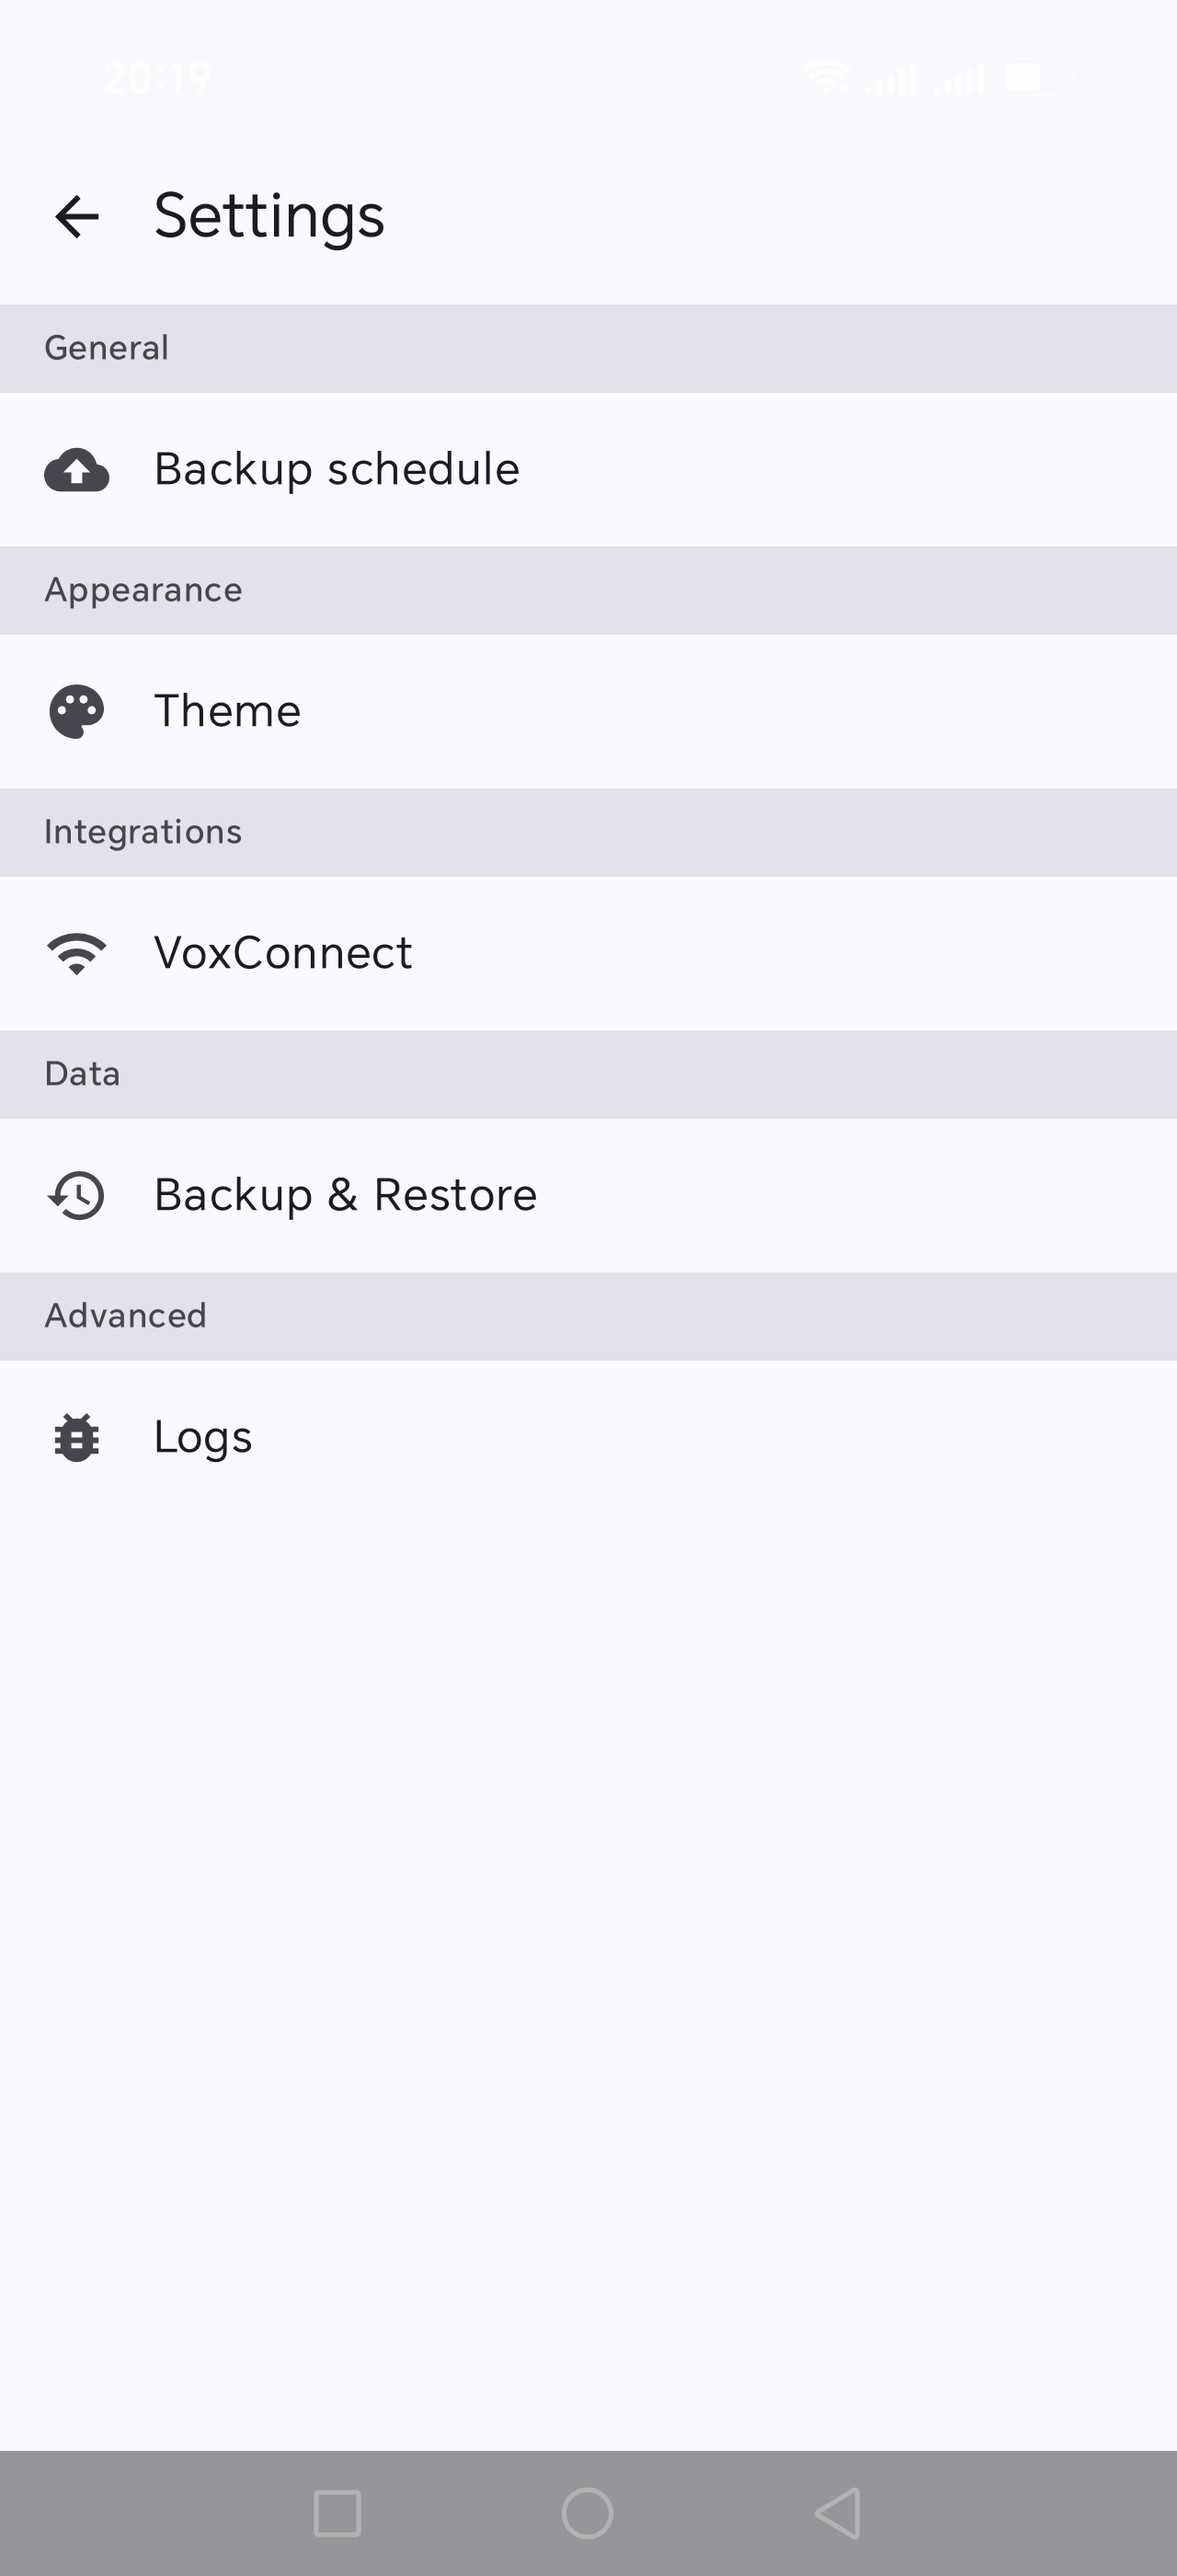
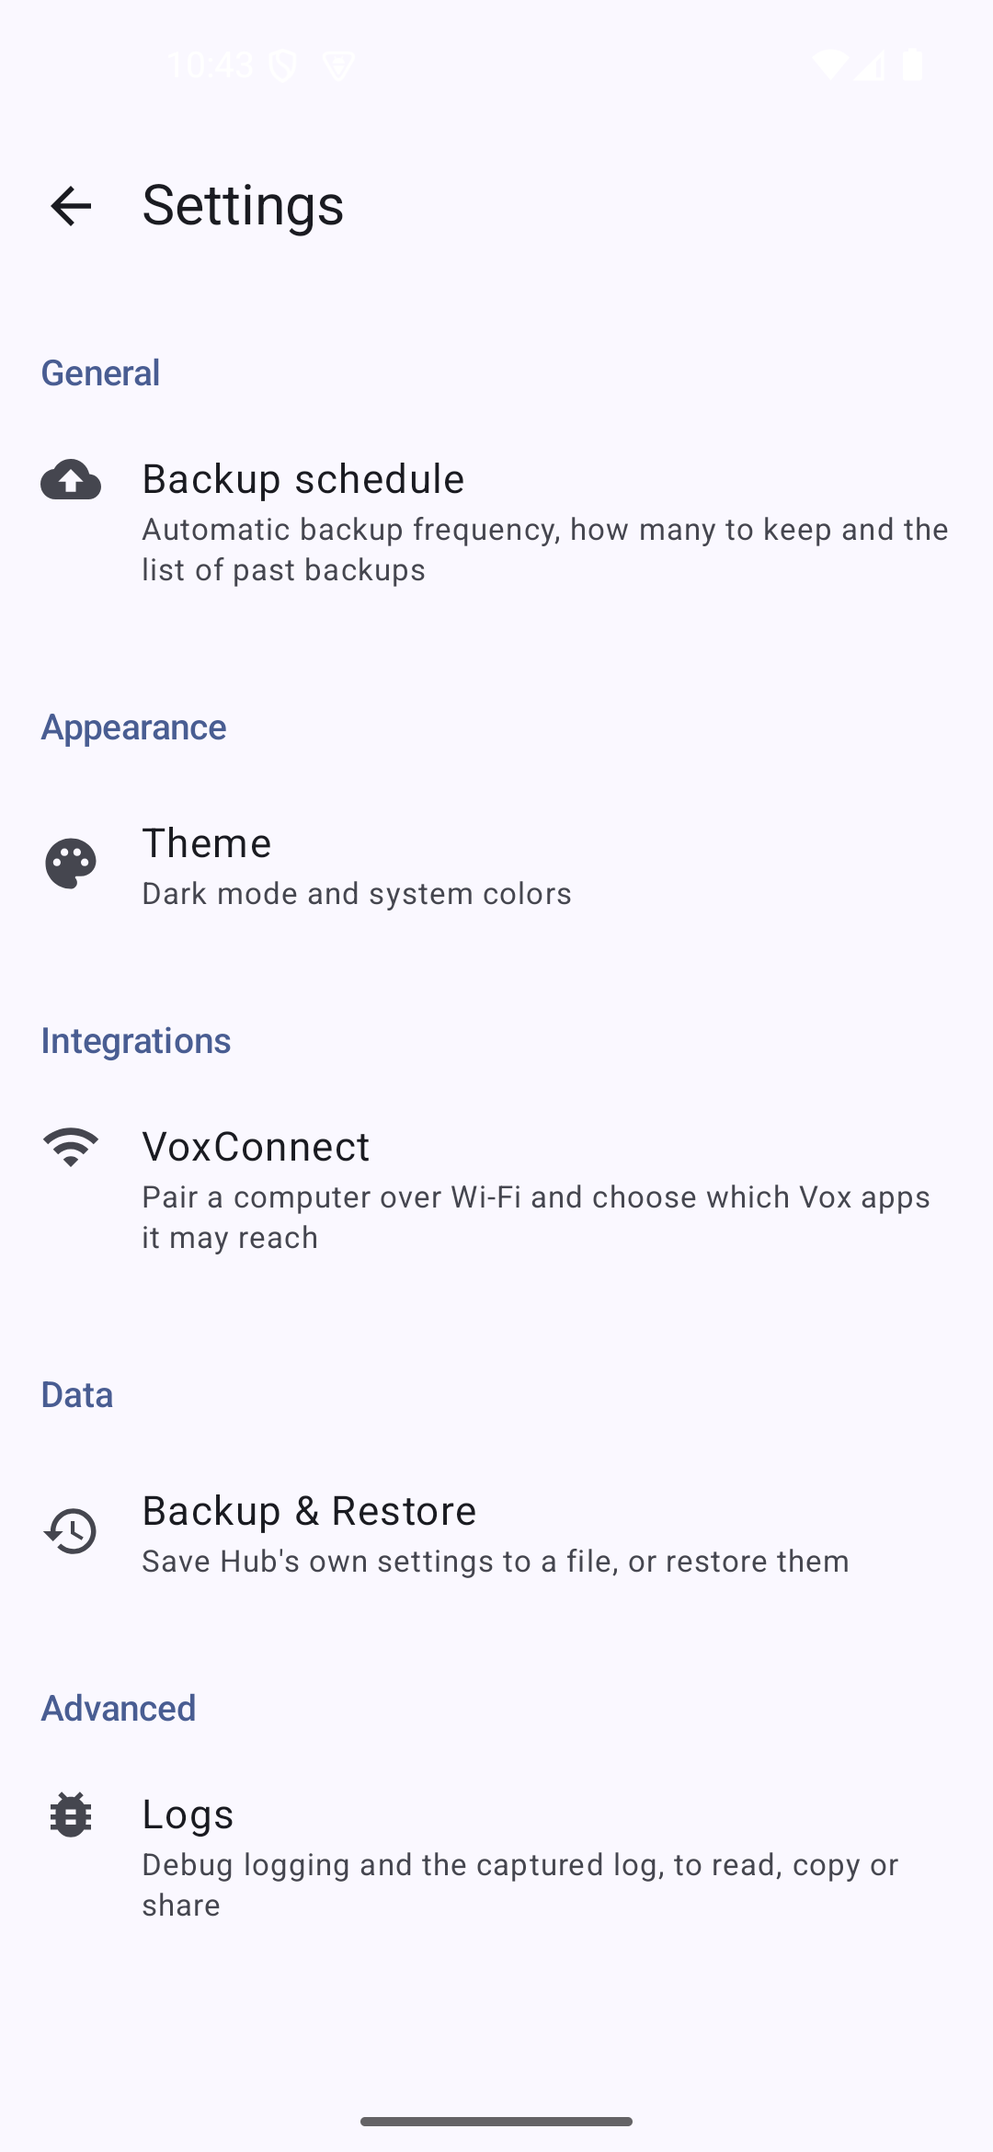
docs: the store listings and the documentation describe the apps that ship
Fastlane, against the last two hundred commits: Vision leads with Vox
LiveView and calls itself a live text reader; Commander's GPU bullet says
OpenCL, which is what runs; Expenses gains multi-select with one edit over
many records, the archive with its five-second-armed deletion, budgets per
account and currency, and the currency read off the message; Calendar's
to-dos are edited inline, recur on chosen weekdays and can reset at
midnight; Notes' records outlive their category.

Screenshots follow the same audit. Thirteen new: LiveView's three result
styles photographed on a real flyer — the green country prefix and the
folded address visible — Expenses' selection bar, bulk edit sheet, archive,
the account-and-card editor, Reports under the filter chip, and Commander's
five settings pages. Twenty-one obsolete ones removed: Commander's entire
top-tab shell, Expenses' free-text bank editor, Calendar's modal to-do
dialogs. Every app's settings menu recaptured with the per-row
descriptions the menus now carry.

The repo documentation moves in step: README and APPS_OVERVIEW introduce
LiveView and embed its screenshots, TECHNICAL_DOCUMENTATION describes its
architecture next to the scan flow it leaves untouched, the satellite
guide notes the alias sits outside the IPC contract, and the real-use
notes cover reading on a moving hand. No embedded image points at a file
that no longer exists.

diff --git a/docs/APPS_OVERVIEW.md b/docs/APPS_OVERVIEW.md
@@ -85,7 +85,7 @@ ecosystem plugs into, though it works completely on its own with no companion ap
     its real name (e.g. saying "youtube" launches a YouTube-frontend app like LibreTube instead). An
     alias is resolved *before* category defaults, so it always wins over whatever's starred.
 
-  <img width="388" height="850" alt="App Manager: default apps and App Aliases" src="../vox-commander/fastlane/metadata/android/en-US/images/phoneScreenshots/23_app_manager_aliases.png" />
+  <img width="388" height="850" alt="App Manager: default apps and App Aliases" src="../vox-commander/fastlane/metadata/android/en-US/images/phoneScreenshots/36_app_manager_page.png" />
 
   The same tab also has a Media Session permission switch (needed to control playback in apps like
   Spotify), a "Return to previous app after action" app list, and the External Trigger toggle mentioned
@@ -214,8 +214,11 @@ through Commander (`create`/`read`) or used entirely on its own.
 
 ## Vox Vision
 
-Standalone document scanner (`com.voxapps.vision`, `com.voxapps.vision.VisionActivity`) — no voice
-commands in, only OCR text out.
+Standalone document scanner and live text reader (`com.voxapps.vision`,
+`com.voxapps.vision.VisionActivity`) — no voice commands in, only OCR text out. Two launcher icons,
+one activity: **Vox Vision** is the scan flow below, **Vox LiveView** is an activity-alias on the
+same activity whose component name selects a separate reading mode; a satellite's OCR request always
+lands in the scan flow whichever icon was used last.
 
 - **Camera capture** (CameraX) with a live overlay of the detected document bounds
 - **Auto-capture** — a throttled `ImageAnalysis` pass runs Otsu-threshold brightness-blob detection
@@ -234,6 +237,24 @@ commands in, only OCR text out.
   long document as you go), or **Batch** (keep shooting pages, OCR runs on all of them only once the
   session ends).
 
+- **Vox LiveView** — the camera as a reader rather than a capturer. Once the framing holds still,
+  the frame is OCR'd once and each recognized row is classified from shape alone
+  (`:core:textmatch`'s `LineEntities`: account by checksum, email, web address, phone by evidence
+  rungs, street address, generic — plus the user's own regex categories, which outrank the
+  built-ins). Every row gets a float of chips anchored to its text: one **built-in action** through
+  the system default (dial / write / open / map search / web search / copy) followed by **any apps
+  the person added** in settings, each drawn with its own icon and reached by its most specific
+  carrier (`EntityActions.*ToApp`). Chips persist for as long as the document stays in frame —
+  invalidation demands sustained evidence at a chosen eagerness — and ride panning and zooming
+  through the affine map of the document rectangle. Multi-line addresses fold the city-and-postal
+  line into the street's entity; national phone numbers are completed to international form with
+  the prefix derived from the document's own ccTLD (site first, email second, a fixed table —
+  `CountryDialing`), shown green in the frozen view. Three result styles: chips over the live text,
+  boxes filled with the recognized text, or a frozen washed-out frame with the fields as a table
+  (specific kinds first, search rows last, retry and close beneath). Detector pace, rescan
+  eagerness, per-kind strictness (the duplicate rules' exact/fuzzy switch), float apps and custom
+  categories all live in a LiveView settings page; a first-open explainer owns the camera
+  permission ask.
 - **Table mode** — a scan request can declare its document tabular (Vox Expenses does, for
   invoices); an additive reconstruction pass rebuilds the printed rows and columns behind a marker in
   the OCR output, and the plain text follows printed row order, so downstream parsing sees the table
@@ -257,6 +278,9 @@ commands in, only OCR text out.
   titled cards.
 
   <img width="388" height="850" alt="Settings labeled sections" src="../vox-vision/fastlane/metadata/android/en-US/images/phoneScreenshots/3_settings_sections.png" />
+  <img width="388" height="850" alt="LiveView: chips anchored to the recognized text" src="../vox-vision/fastlane/metadata/android/en-US/images/phoneScreenshots/4_liveview_live_chips.png" />
+  <img width="388" height="850" alt="LiveView: recognized text painted into the boxes" src="../vox-vision/fastlane/metadata/android/en-US/images/phoneScreenshots/5_liveview_filled_text.png" />
+  <img width="388" height="850" alt="LiveView: frozen frame with the fields as a table" src="../vox-vision/fastlane/metadata/android/en-US/images/phoneScreenshots/6_liveview_frozen_table.png" />
 
 - Multi-language UI (English, Romanian, German, French)
 
@@ -296,6 +320,18 @@ bank/payment notifications, or entered by hand.
   (Settings, off by default) triggers this automatically the moment a stub expense gets its first photo.
 
   <img width="388" height="850" alt="Rescan suggestions, applied field by field" src="../vox-expenses/fastlane/metadata/android/en-US/images/phoneScreenshots/22_rescan_field_suggestions.png" />
+
+- **Many records at once** — long-press starts a selection; a checklist button in the bar flips
+  between select-all and select-none, and the pencil opens the same edit layout over every selected
+  record: fields that differ across the selection read "Multiple values" and only what you touch is
+  written. The other two bar actions are archive — records leave every list, total and budget until
+  restored, with a retention picklist and a red, five-second-armed permanent delete on the archive
+  screen — and delete, behind the same countdown confirmation. The filter chip the list carries sits
+  on Reports and the budget screen too, reading the same state.
+
+  <img width="388" height="850" alt="Selection bar with select-all, edit, archive, delete" src="../vox-expenses/fastlane/metadata/android/en-US/images/phoneScreenshots/32_multi_select.png" />
+  <img width="388" height="850" alt="One edit over three records — untouched fields stay per-record" src="../vox-expenses/fastlane/metadata/android/en-US/images/phoneScreenshots/33_bulk_edit.png" />
+  <img width="388" height="850" alt="The archive: retention picklist and restore" src="../vox-expenses/fastlane/metadata/android/en-US/images/phoneScreenshots/34_archive.png" />
 
 - **Notification capture** — an opt-in `NotificationListenerService` inspects notifications only from
   apps the user explicitly allowlists (Settings → Notification capture); a matched notification is a
@@ -822,7 +858,6 @@ own doc comment). Voice-created through Commander (`create`/`read`) or used enti
   <img width="388" height="850" alt="ToDo items on the home-screen widget" src="../vox-calendar/fastlane/metadata/android/en-US/images/phoneScreenshots/23_todo_widgets.png" />
   <img width="388" height="850" alt="Scan-to-checklist-item" src="../vox-calendar/fastlane/metadata/android/en-US/images/phoneScreenshots/9_todo_scan_button.png" />
   <img width="388" height="850" alt="Due-date/time quick-picker" src="../vox-calendar/fastlane/metadata/android/en-US/images/phoneScreenshots/10_todo_due_date_picker.png" />
-  <img width="388" height="850" alt="Per-list/per-item color picker" src="../vox-calendar/fastlane/metadata/android/en-US/images/phoneScreenshots/11_todo_color_picker.png" />
   <img width="388" height="850" alt="Inline task editor" src="../vox-calendar/fastlane/metadata/android/en-US/images/phoneScreenshots/20_todo_inline_editor.png" />
   <img width="388" height="850" alt="Weekly recurrence on chosen weekdays" src="../vox-calendar/fastlane/metadata/android/en-US/images/phoneScreenshots/21_weekday_recurrence.png" />
   <img width="388" height="850" alt="Routine list: unchecks at midnight on the chosen days" src="../vox-calendar/fastlane/metadata/android/en-US/images/phoneScreenshots/22_routine_list.png" />

diff --git a/docs/TECHNICAL_DOCUMENTATION.md b/docs/TECHNICAL_DOCUMENTATION.md
@@ -2058,6 +2058,36 @@ receives voice commands (its `VisionCommandReceiver` only answers the discovery 
   reading order, not detector order.
 - **Stitch capture**: multi-shot stitching joins accepted shots' text with
   `ContinuityMatcher.STITCH_SEAM_MARKER` (`--- [photo stitch seam …] ---`) at each join.
+- **Vox LiveView** — a second launcher entry on the same activity. The manifest declares an
+  `activity-alias` (`.LiveView`, its own `MAIN`/`LAUNCHER` filter, label `Vox LiveView`);
+  `VisionActivity` reads `intent.component.className` in `onCreate`/`onNewIntent` and shows
+  `LiveViewScreen` instead of the scan flow — an alias can add no extras, so the component name *is*
+  the mode. A pending OCR request always wins: satellites launch `.VisionActivity` by name and the
+  payload check runs first, so the scan contract is unreachable from — and untouched by — LiveView.
+  The two screens share only the camera floor (`ui/CameraFrames.kt`: analysis-interval floors,
+  stability tolerances, the FIT_CENTER `remapForPreviewCrop`, frame conversions, the fixed sensor
+  orientation, and the single `nativeCvLock` that serializes every native OpenCV entry point in the
+  process). LiveView runs **stable-frame reads**: the document-bounds detector is the stability
+  gate; once the framing holds, the upright color analysis frame goes through
+  `OcrEngine.read(bitmap)` — the geometry-preserving sibling of `recognize()`, returning
+  `RowClusterer`'s printed rows with their boxes — on the analysis thread under `nativeCvLock`.
+  Rows are classified by `:core:textmatch`'s `LineEntities` (custom regex categories first, then
+  checksum-gated account, email, URL, phone by evidence rungs, labeled street address; per-kind
+  opt-in fuzzy tiers; generic otherwise), a generic line under an address folds in via
+  `looksLikeAddressContinuation`, and national phone numbers are completed by `CountryDialing`
+  (ccTLD → E.164 prefix, trunk-zero rules; site's domain first, email's second; stated
+  international numbers never rewritten). Each row renders a float of chips anchored to its box:
+  the kind's baked-in action through the system default, then the user's added apps (full
+  installed-app list via `QUERY_ALL_PACKAGES`, same declaration and reason as Expenses/Commander),
+  fired by `:core:design`'s `EntityActions` — `dial`/`composeEmail`/`openUrl`/`openMaps`/
+  `searchWeb` plus the `*ToApp` family that tries an app's most specific carrier before falling
+  back to shared text. Between reads the chips ride the document rectangle's affine map (pan
+  translates, zoom scales); a finished reading is cleared only on sustained evidence — a miss-grace
+  of detection-less ticks or a streak of foreign rectangles — at a user-chosen rescan eagerness.
+  Three result styles (live chips / recognized text painted into filled boxes / a frozen frame with
+  the fields as a table, specific kinds first), detector pace, per-kind exact-fuzzy strictness,
+  float apps and custom categories are all settings; LiveView state lives in
+  `VisionSettingsRepository` keys prefixed `liveview_`.
 - **Multimodal photo attachment** (Settings → "Send photo to AI" + "Photo detail for AI") — off by
   default. When on, capture also produces a downscaled JPEG (`downscaleToLongEdge`, 768/1024/1536px
   by detail level) alongside the existing full-resolution one, handed back to the caller as

diff --git a/README.md b/README.md
@@ -70,7 +70,7 @@ apps."
 |-----|--------------|
 | 🎙 [**Vox Commander**](#-vox-commander) | On-device voice assistant — wake word, Whisper STT, a 3-layer AI pipeline, and instant FastMap voice-shortcut rules you define yourself. |
 | 📝 [**Vox Notes**](#-vox-notes) | Encrypted on-device notes, created by voice or by hand, with AI-assisted category/duplicate cleanup. |
-| 📷 [**Vox Vision**](#-vox-vision) | Privacy-first document scanner — on-device OCR, no cloud round-trip, forwards clean text to Notes/Expenses. |
+| 📷 [**Vox Vision**](#-vox-vision) | Privacy-first document scanner and live text reader — on-device OCR, no cloud round-trip, forwards clean text to Notes/Expenses; Vox LiveView turns recognized text into tappable actions. |
 | 💸 [**Vox Expenses**](#-vox-expenses) | Encrypted on-device expense tracker — voice, receipt scan, or automatic bank-notification capture. |
 | 📅 [**Vox Calendar**](#-vox-calendar) | Encrypted on-device calendar with natural-language scheduling and a built-in ToDo Lists system. |
 | 🗂 [**Vox Hub**](#-vox-hub) | Backup, restore, and cloud-free peer-to-peer sync across the whole family of apps. |
@@ -200,10 +200,18 @@ phone via Vox Hub, plus its own Backup & Restore screen.
 
 ### 📷 Vox Vision
 
-Document scanner. Camera capture with auto-detected document bounds and auto-capture, on-device OCR (no
-network round-trip), edge-cropping, then forwards the cleaned text to Vox Notes or Vox Expenses as a new
-record. A table mode reconstructs tabular documents (invoices) row by row when the requesting app declares
-the scan tabular, so the extracted text follows the printed rows.
+Document scanner and live reader. Camera capture with auto-detected document bounds and auto-capture,
+on-device OCR (no network round-trip), edge-cropping, then forwards the cleaned text to Vox Notes or Vox
+Expenses as a new record. A table mode reconstructs tabular documents (invoices) row by row when the
+requesting app declares the scan tabular, so the extracted text follows the printed rows.
+
+A second launcher icon, **Vox LiveView**, turns the same camera into a reader: hold it over a card, a
+flyer or a label and the recognized lines get chips anchored to them — a phone number offers a call, an
+email a draft, an address a map search; every category has one built-in action on the system default
+plus any apps you add, and your own categories are a name and a regex. Chips persist while the document
+stays in frame and track panning and zooming; results can also render as filled text boxes or a frozen
+frame with the fields as a table. Multi-line addresses fold into one, and national phone numbers are
+completed with the country prefix read from the document's own web domain.
 
 → [Full feature list](docs/APPS_OVERVIEW.md#vox-vision)
 

diff --git a/docs/APP_DETAILS_UNDER_REAL_USE.md b/docs/APP_DETAILS_UNDER_REAL_USE.md
@@ -129,6 +129,27 @@ becomes "when the OS feels like it", which for a phone in a pocket abroad can be
 > that is correct, since nothing about a sentence is certain before it is read — but the person can
 > now see that it is being worked on rather than wonder whether they were heard.
 
+## 6. Reading in place — LiveView on a moving hand
+
+**The happy path.** The phone hovers over a label; within a second of holding still, chips appear on
+the recognized lines. The hand drifts, the chips drift with it — the affine map of the document
+rectangle, not a re-read. The person taps WhatsApp on the phone-number line and the chat opens with
+the full international number, because the label's own `.ro` domain named the prefix.
+
+**The sad path.** The detector loses the rectangle for a second — a shadow, a tilt. Nothing happens:
+chips clear only on *sustained* absence, at an eagerness the person chose, and the default demands
+seven-plus seconds of genuinely empty detection. A read that lands on a blur returns nothing and
+retries on its own a few seconds later. If recognition misreads a line, every chip is an offer and
+not an act — a wrong number opens a prefilled dialer, it never places a call.
+
+**What the user knows.** The frame pulses while the OCR pass holds the camera thread — deliberate
+motion over the frozen rectangle, so a second of stillness reads as thinking rather than hanging.
+The frozen style makes the whole exchange explicit: the frame stops, the fields line up as a table,
+and nothing moves until retry or close.
+
+> **Verdict.** The mode never writes anything anywhere — no records, no queue, no IPC. The worst a
+> bad read can cost is a tap that opens the wrong draft.
+
 ## What I would fix first, in order
 
 1. ~~**Per-field origin** on a record~~ — done: stored at capture, shown beside the field, replaced

diff --git a/docs/SATELLITE_APP_GUIDE.md b/docs/SATELLITE_APP_GUIDE.md
@@ -422,6 +422,9 @@ You never write a `<permission>` tag yourself for any of these.
 ```kotlin
 VoxIpc.VISION_PACKAGE          // "com.voxapps.vision"
 VoxIpc.VISION_ACTIVITY_CLASS   // "com.voxapps.vision.VisionActivity"
+// Always launch Vision by this class name. Vision also exposes a second launcher entry (the
+// "Vox LiveView" activity-alias) for its own reading mode — it is not part of the IPC contract,
+// and an OCR request always lands in the scan flow regardless of which icon a person used last.
 VoxIpc.HUB_PACKAGE             // "com.voxapps.hub"
 VoxIpc.NOTES_PACKAGE           // "com.voxapps.notes"
 VoxIpc.EXPENSES_PACKAGE        // "com.voxapps.expenses"
